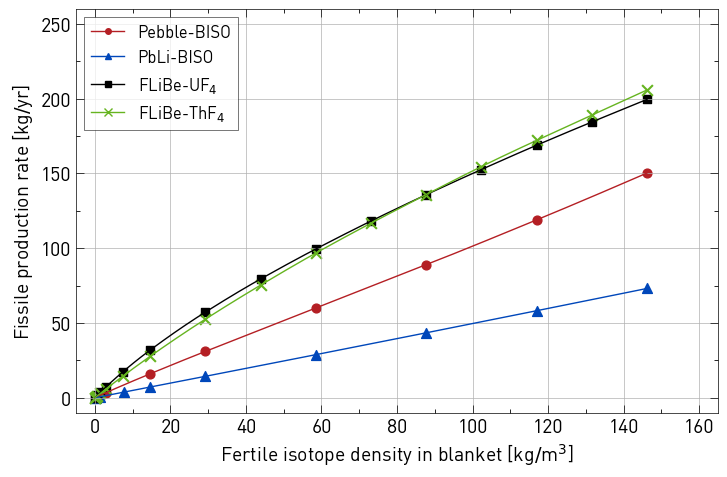
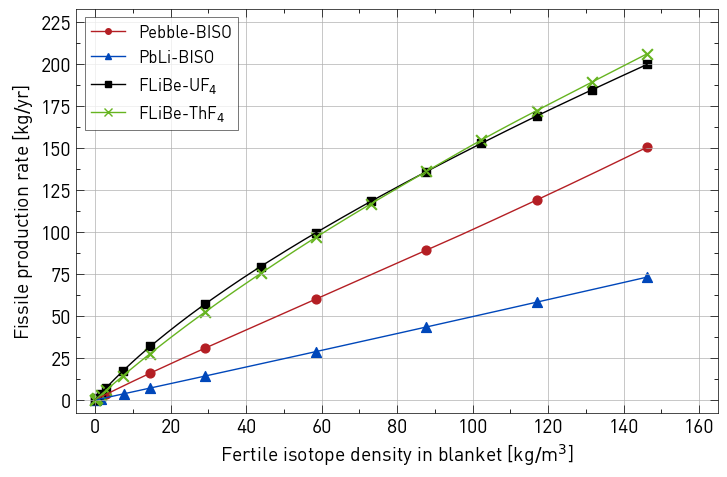
editing figures

diff --git a/plot_all.py b/plot_all.py
@@ -182,7 +182,7 @@ class Plot:
         plt.ylabel('Fissile production rate [kg$/$yr]')
 
         plt.xlim(-5,165)
-        plt.ylim(-10,260) 
+        plt.ylim(-7.5,225+7.5) 
 
         # Tick grid
         ax = plt.gca()
@@ -191,7 +191,8 @@ class Plot:
         ax.grid(axis='x', which='major', linestyle='-', linewidth=0.5)
 
         ax.yaxis.set_ticks_position('both')
-        ax.yaxis.set_minor_locator(MultipleLocator(25))
+        ax.yaxis.set_major_locator(MultipleLocator(25))
+        ax.yaxis.set_minor_locator(MultipleLocator(12.5))
         ax.grid(axis='y', which='major', linestyle='-', linewidth=0.5)
 
         plt.tight_layout()
@@ -294,86 +295,6 @@ class Plot:
         if self.show: plt.show()
         plt.close('all')
 
-            # print((grouped["normalized_mean"]))
-        
-
-            # ax.step(energy_cum.index, energy_cum.values, where="post")
-
-
-                
-
-        """
-        # Compute cumulative sum
-        cum_y = np.cumsum(y)
-
-        # Normalize cumulative sum to max value
-        cum_y_norm = cum_y / cum_y.iloc[-1] if cum_y.iloc[-1] != 0 else cum_y
-
-        plt.plot(x, cum_y_norm, linewidth=0.75, label=f'{self.u_list[i]} MTU')
-
-        plt.xlabel('Energy [eV]')
-        plt.ylabel('Cumulative normalized reactions')
-        plt.title(f'FLiBe Cumulative normalized U-238 (n,gamma) rxn rate')
-        plt.xscale('log'), plt.yscale('linear')
-        plt.xlim(1e1,1e3), plt.ylim(0,1.05)
-
-        # Reposition legend
-        leg = plt.legend(loc='lower right', ncols=1, frameon=True, fancybox=False, edgecolor='black', framealpha=.75,)
-        leg.get_frame().set_linewidth(1)
-
-        # Export figure
-        if self.save:
-            plt.savefig(f'./Figures/pdf/{self.name}/fig_U238ng_cum_norm.pdf', bbox_inches='tight', format='pdf') 
-            plt.savefig(f'./Figures/png/{self.name}/fig_U238ng_cum_norm.png', bbox_inches='tight', format='png')
-            print(f"   Exported cumulative normalized Pu production vs. energy with MTU contours plot.")
-
-            plt.xlim(1e0,2e7), plt.ylim(0,1.05)
-
-
-            plt.savefig(f'./Figures/pdf/{self.name}/fig_U238ng_cum_norm_full.pdf', bbox_inches='tight', format='pdf') 
-            plt.savefig(f'./Figures/png/{self.name}/fig_U238ng_cum_norm_full.png', bbox_inches='tight', format='png')
-
-        if self.show:plt.show()
-        plt.close('all')
-
-        plt.figure(figsize=(9,6))
-
-        for i, cell_id in enumerate(self.cell_ids):
-            if self.u_list[i] in [10, 20, 30, 40, 50]:
-                df = self.U238_ng_Ebin_rr_df[self.U238_ng_Ebin_rr_df['cell'] == cell_id]
-                x = df['energy mid [eV]']
-                y = df['mean']
-
-                # Compute cumulative sum
-                cum_y = np.cumsum(y)
-
-                plt.plot(x, cum_y, linewidth=0.75, label=f'{self.u_list[i]} MTU')
-
-        plt.xlabel('Energy [eV]')
-        plt.ylabel('Cumulative normalized reactions')
-        plt.title(f'FLiBe Cumulative U-238 (n,gamma) rxn rate')
-        plt.xscale('log'), plt.yscale('linear')
-        plt.xlim(1e1,1e3)
-
-        # Reposition legend
-        leg = plt.legend(loc='lower right', ncols=1, frameon=True, fancybox=False, edgecolor='black', framealpha=.75,)
-        leg.get_frame().set_linewidth(1)
-
-        # Export figure
-        if self.save:
-            plt.savefig(f'./Figures/pdf/{self.name}/fig_cum_hist.pdf', bbox_inches='tight', format='pdf') 
-            plt.savefig(f'./Figures/png/{self.name}/fig_cum_hist.png', bbox_inches='tight', format='png')
-            print(f"   Exported cumulative normalized Pu production vs. energy with MTU contours plot.")
-
-            plt.xlim(1e0,2e7)
-
-
-            plt.savefig(f'./Figures/pdf/{self.name}/fig_U238ng_cum_full.pdf', bbox_inches='tight', format='pdf') 
-            plt.savefig(f'./Figures/png/{self.name}/fig_U238ng_cum_full.png', bbox_inches='tight', format='png')
-
-        if self.show:plt.show()
-        plt.close('all')
-        """
 
 
 
